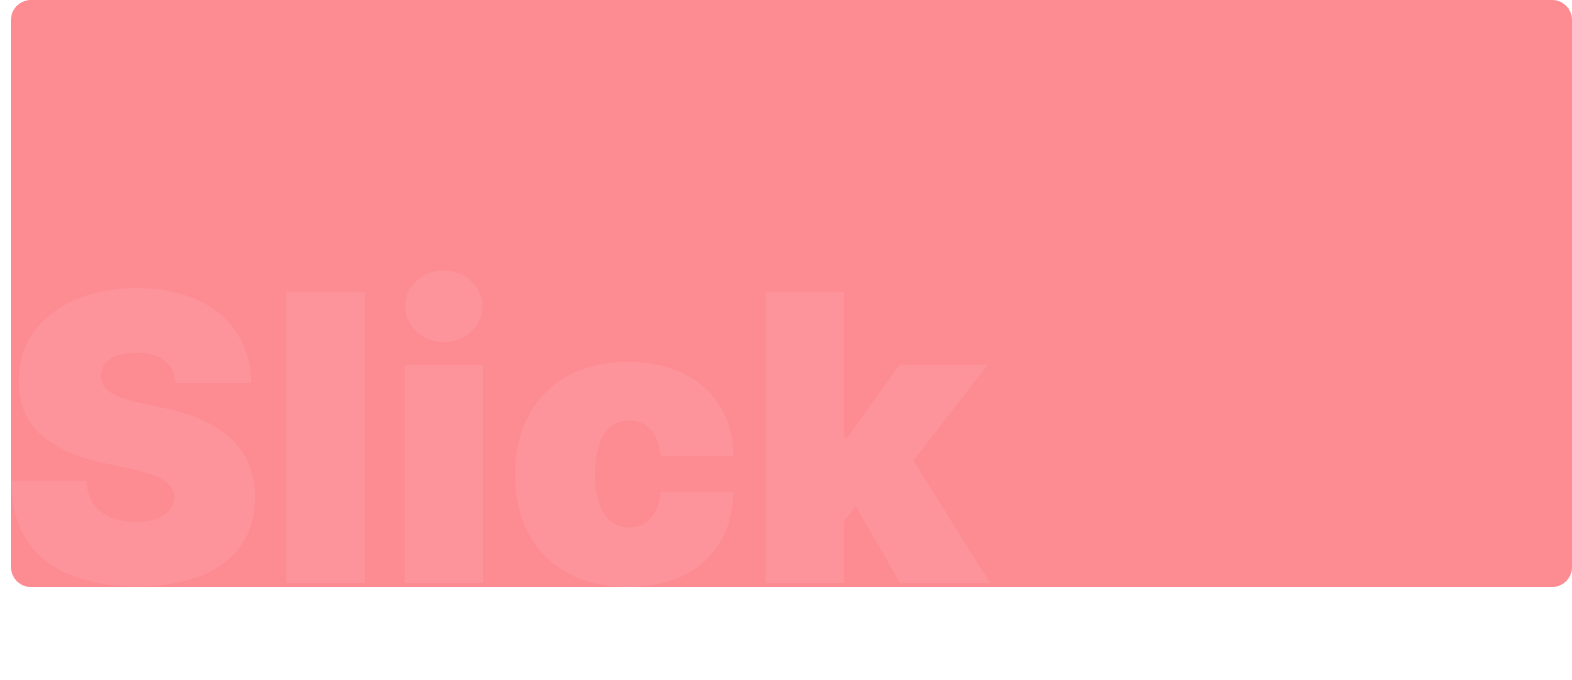
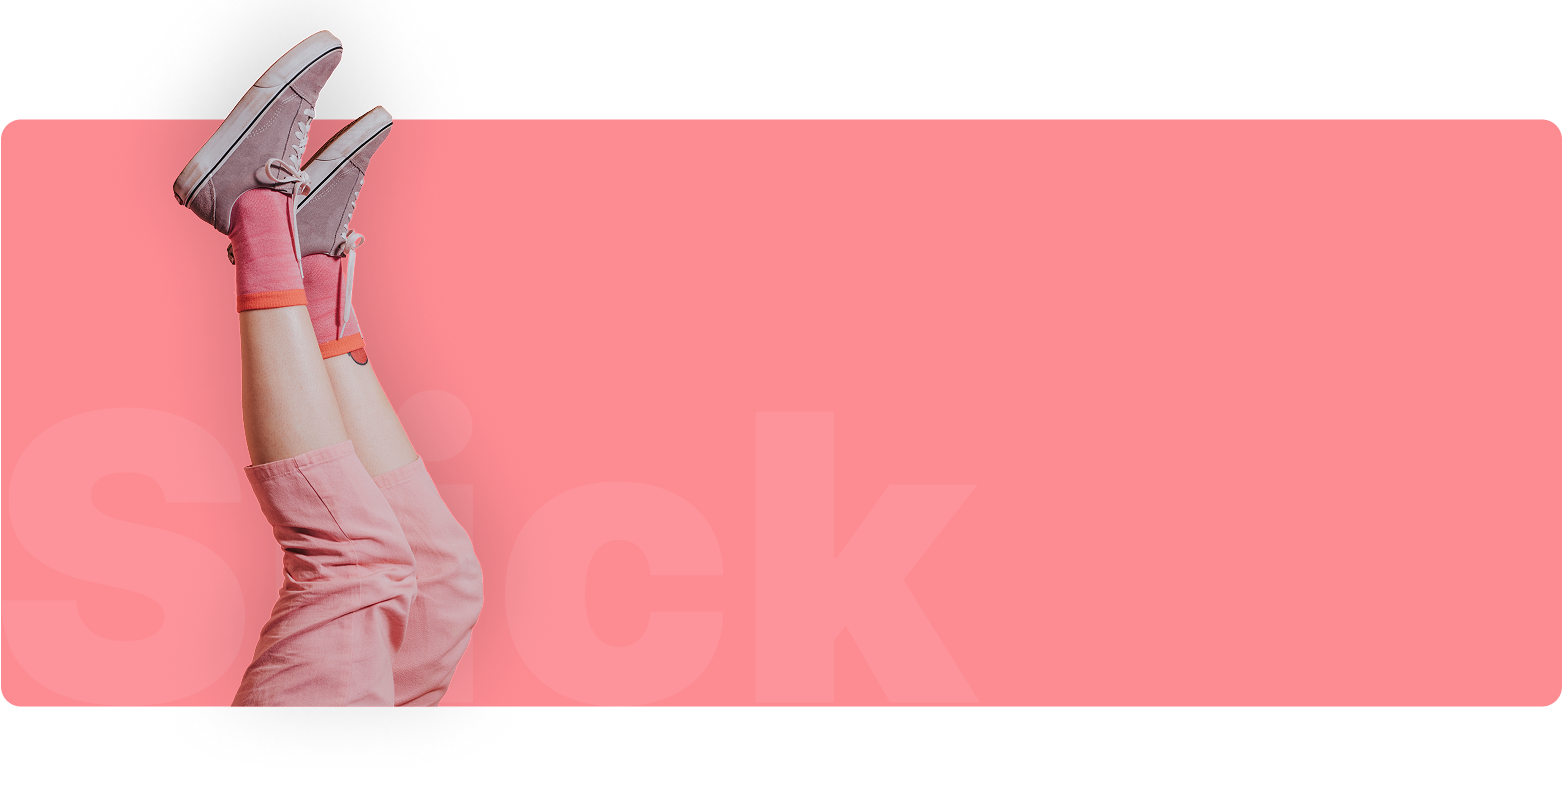
done

Changed region(s): [[0.0, 0.0, 1.0, 0.8956]]

diff --git a/src/pages/components/PinkLead.jsx b/src/pages/components/PinkLead.jsx
@@ -1,0 +1,31 @@
+import React from 'react'
+import pinkBg from '../../assets/pinkLead.png'
+import threeShoe from '../../assets/shoe3.png'
+
+const PinkLead = () => {
+    return (
+        <div>
+            <div className="container mx-auto px-4">
+                <div className='relative'>
+                    <img src={pinkBg} alt="" className='w-full rounded-lg' />
+
+                    <div className='absolute top-[50%] right-4 sm:right-6 md:right-12 lg:right-16 -translate-y-1/2 max-w-[90%] sm:max-w-md md:max-w-lg'>
+                        <h2 className='text-lg sm:text-xl md:text-3xl lg:text-4xl font-bold mb-2 sm:mb-3 md:mb-4 font-poppins text-white w-full sm:w-[250px] md:w-[300px] lg:w-[350px]'>
+                            Are you ready to lead the way
+                        </h2>
+                        <p className='text-xs sm:text-sm md:text-base mb-3 sm:mb-4 md:mb-6 font-poppins text-white w-full sm:w-[280px] md:w-[350px] lg:w-[400px]'>
+                            Lorem ipsum dolor sit amet consectetur adipisicing elit. Rec.
+                        </p>
+                        <button className='bg-white text-[#fd8b92] px-4 py-2 sm:px-5 sm:py-2.5 md:px-6 md:py-3 rounded-lg hover:bg-transparent font-poppins font-bold cursor-pointer hover:text-white duration-500 transition text-sm sm:text-base'>
+                            Explore
+                        </button>
+
+                        <img src={threeShoe} alt="" className='hidden md:hidden lg:block object-contain mt-4'/>
+                    </div>
+                </div>
+            </div>
+        </div>
+    )
+}
+
+export default PinkLead

diff --git a/src/pages/HomePage.jsx b/src/pages/HomePage.jsx
@@ -2,6 +2,7 @@ import React from 'react'
 import Navbar from './components/Navbar'
 import Banner from './components/Banner'
 import Tranding from './components/Trending'
+import PinkLead from './components/PinkLead'
 
 const HomePage = () => {
   return (
@@ -10,10 +11,13 @@ const HomePage = () => {
       <div className='absolute top-0 left-0 right-0 z-50'>
         <Navbar />
       </div>
-      
+
       {/* Banner */}
       <Banner />
       <Tranding />
+      <div className='md:block lg:block hidden'>
+        <PinkLead />
+      </div>
     </div>
   )
 }

diff --git a/src/pages/components/Navbar.jsx b/src/pages/components/Navbar.jsx
@@ -11,7 +11,7 @@ const Navbar = () => {
     }
 
     return (
-        <nav className='fixed w-full font-poppins'>
+        <nav className='w-full font-poppins'>
             <div className='container mx-auto px-4 sm:px-6 lg:px-8'>
                 <div className='flex justify-between items-center py-6 md:py-8 lg:pt-[66px]'>
                     {/* Logo */}
